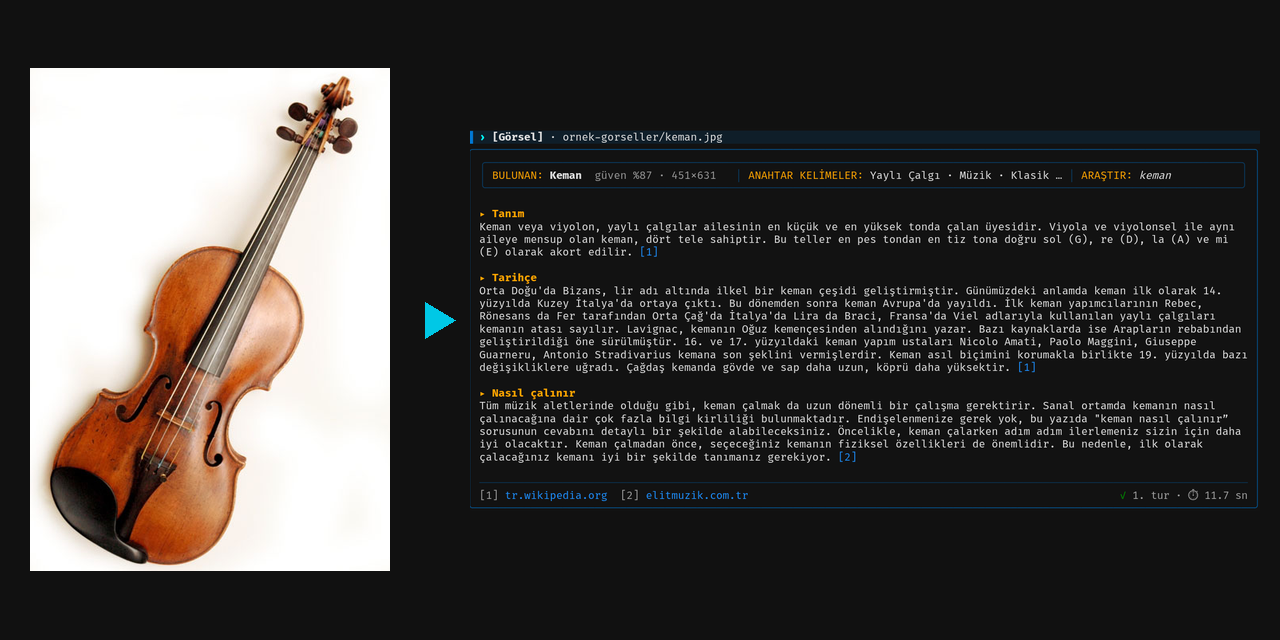
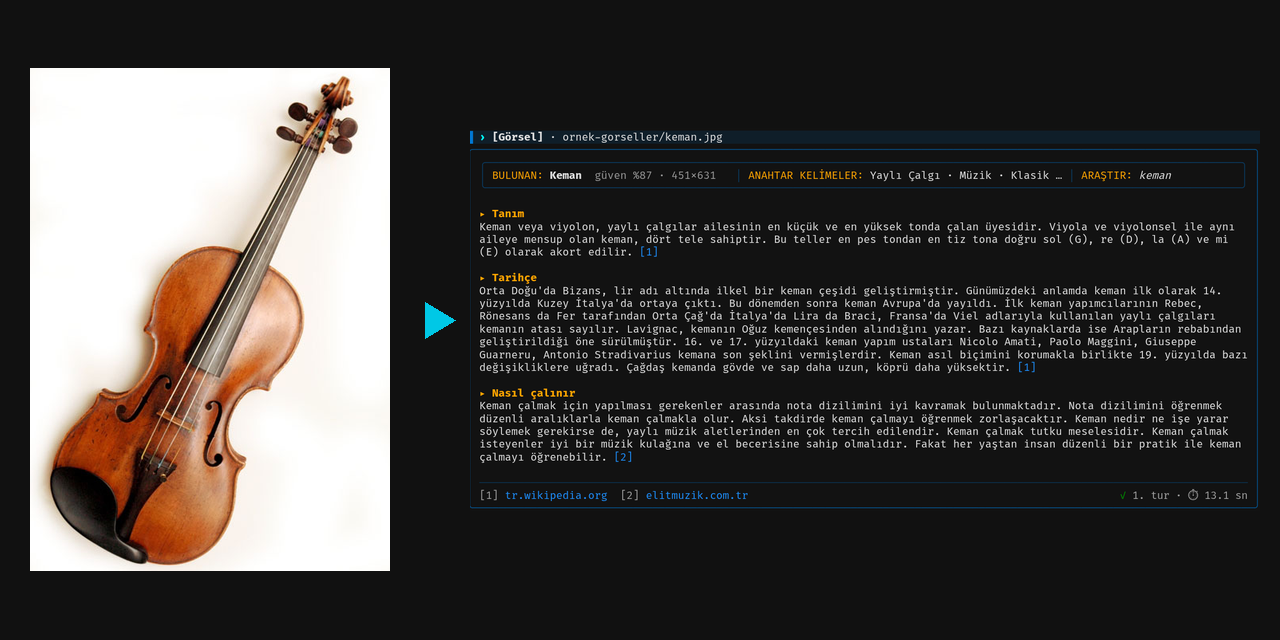
fix: drop blog intros and outros that address the reader

Changed region(s): [[0.375, 0.625, 0.9688, 0.7188]]

diff --git a/tests/test_core.py b/tests/test_core.py
@@ -165,6 +165,20 @@ class ExtractorTest(unittest.TestCase):
         glued = "Cruise Gemisi Nasıl Bir Gemidir?: İçinde konaklama olanağı bulunan gemilerdir."
         self.assertEqual(ContentExtractor.clean(glued), "İçinde konaklama olanağı bulunan gemilerdir.")
 
+    def test_rules_reject_blog_intro(self):
+        intro = ("Tüm müzik aletlerinde olduğu gibi keman çalmak da uzun bir çalışma gerektirir. "
+                 "Endişelenmenize gerek yok, bu yazıda keman çalmayı detaylı bir şekilde öğreneceksiniz.")
+        promise = ("Keman çalmaya başlamadan önce doğru duruşu bilmek gerekir ve aşağıda bunun "
+                   "adımlarını sırasıyla bulabileceksiniz, ardından ilk notalara geçilir.")
+        fact = ("Keman dört telli bir çalgıdır ve teller en pes tondan en tize doğru sol, re, la "
+                "ve mi olarak akort edilir, ses yay ile tellerin titreştirilmesiyle elde edilir.")
+        self.assertFalse(ContentExtractor._passes_rules(intro, ["keman"]))
+        self.assertFalse(ContentExtractor._passes_rules(promise, ["keman"]))
+        outro = ("İşte keman çalmak, bu beş temel adımın sabırla bir araya getirilmesidir. Artık "
+                 "\"keman nasıl çalınır?\" sorusunun cevabının somut adımlardan geçtiğini biliyorsunuz.")
+        self.assertFalse(ContentExtractor._passes_rules(outro, ["keman"]))
+        self.assertTrue(ContentExtractor._passes_rules(fact, ["keman"]))
+
     def test_block_hints_and_threshold(self):
         page = SearchResult("x", "https://x.com/a")
         history = ("Keman ilk kez 16. yüzyılda İtalya'da ortaya çıkmış, Cremona'daki ustaların "

diff --git a/app/extractor.py b/app/extractor.py
@@ -32,6 +32,13 @@ NOISE_PATTERNS = ("çerez", "kvkk", "sepet", "giriş yap", "üye ol", "©", "tı
                   # birinci şahıs blog anlatısı bilgi değil deneyimdir
                   "yollardayım", "kullanıyorum", "eminim", "bence", "benim ", "ben de",
                   "satın al", "bilet", "sipariş ver")
+# yazının kendisinden söz eden ya da okura söz veren paragraf blog girişidir, bilgi taşımaz
+META_PATTERNS = ("bu yazıda", "yazımızda", "bu makalede", "makalemizde", "bu içerikte",
+                 "içeriğimizde", "bu rehberde", "rehberimizde", "endişelenmenize gerek",
+                 "merak etmeyin", "doğru yerdesiniz", "bilgi kirliliği", "biliyorsunuz",
+                 # sayfa başlığındaki soruya atıf yapan giriş ve kapanış paragrafları
+                 "sorusunun cevab", "sorusunun yanıt", "sorusuna cevap", "sorusuna yanıt")
+READER_PROMISE = re.compile(r"\w+(?:ecek|acak)s[iı]n[iı]z\b")  # alabileceksiniz, öğreneceksiniz
 # tarif ve soru-cevap sitelerinin bilgi taşımayan kalıp cümleleri kırpılır
 TAIL_PATTERNS = re.compile(
     r"\s*(Peki[;,]?\s[^.!?]*[.!?]|İşte[^.!?]*\.{2,}|Afiyet olsun!?|Hadi [^.!?]*[.!?])\s*$")
@@ -160,6 +167,8 @@ class ContentExtractor:
         if len(STOPWORDS.intersection(WORD.findall(lower))) < 2:
             return False
         if any(noise in lower for noise in NOISE_PATTERNS):
+            return False
+        if any(meta in lower for meta in META_PATTERNS) or READER_PROMISE.search(lower):
             return False
         # paragraf objeden söz etmeli, her kök ayrı ya da bitişik ifade
         return all(term in lower for term in anchor)

diff --git a/technical-report.md b/technical-report.md
@@ -222,15 +222,18 @@ The main text of the pages is extracted and split into paragraphs. A paragraph
 must be between one hundred fifty and nine hundred characters, end with a
 period, contain Turkish conjunctions, mention the object and carry no site
 leftovers. Boilerplate sentences on recipe and Q&A sites that carry no
-information are trimmed from the paragraph. Candidates are ranked by tf-idf
-cosine similarity to a query built from the object name and the keywords. Term
-frequency is the count of a stem in the paragraph divided by the total number
-of stems in the paragraph. Inverse document frequency is the natural logarithm
-of the number of candidates plus one, divided by the number of paragraphs that
-contain the stem plus one, plus one. This calculation was written without a
-ready-made library. To tolerate Turkish suffixes, the first five letters of a
-word are used as its stem. One paragraph is taken per source, and duplicates
-with high Jaccard similarity are removed.
+information are trimmed from the paragraph. Paragraphs that talk about the
+article itself or make promises to the reader, such as blog intros and outros
+that start with "in this article" or refer back to the question in the page
+title, are dropped entirely. Candidates are ranked by tf-idf cosine similarity
+to a query built from the object name and the keywords. Term frequency is the
+count of a stem in the paragraph divided by the total number of stems in the
+paragraph. Inverse document frequency is the natural logarithm of the number
+of candidates plus one, divided by the number of paragraphs that contain the
+stem plus one, plus one. This calculation was written without a ready-made
+library. To tolerate Turkish suffixes, the first five letters of a word are
+used as its stem. One paragraph is taken per source, and duplicates with high
+Jaccard similarity are removed.
 
 ## 7. Information blocks
 

diff --git a/teknik-rapor.md b/teknik-rapor.md
@@ -201,14 +201,16 @@ kez daha denenir.
 Sayfaların ana metni çıkarılır ve paragraflara bölünür. Paragraf yüz elli ile
 dokuz yüz karakter arasında olmalı, nokta ile bitmeli, Türkçe bağlaç içermeli,
 objeden söz etmeli ve site kalıntısı taşımamalıdır. Tarif ve soru cevap
-sitelerinin bilgi taşımayan kalıp cümleleri paragraftan kırpılır. Adaylar obje
-adı ve anahtar kelimelerden kurulan sorguya tf-idf kosinüs benzerliğiyle
-sıralanır. Terim sıklığı, kökün paragraftaki sayısının paragraftaki toplam kök
-sayısına oranıdır. Ters belge sıklığı, aday sayısı artı birin kökü içeren
-paragraf sayısı artı bire oranının doğal logaritması artı birdir. Bu hesap
-hazır kütüphane kullanılmadan yazılmıştır. Türkçe ekleri hoş görmek için
-kelimelerin ilk beş harfi kök olarak kullanılır. Kaynak başına bir paragraf
-alınır, Jaccard benzerliği yüksek tekrarlar elenir.
+sitelerinin bilgi taşımayan kalıp cümleleri paragraftan kırpılır. Yazının
+kendisinden söz eden ya da okura söz veren paragraflar, bu yazıda diye
+başlayan ya da sayfa başlığındaki soruya atıf yapan blog giriş ve kapanışları
+gibi, tümüyle elenir. Adaylar obje adı ve anahtar kelimelerden kurulan sorguya
+tf-idf kosinüs benzerliğiyle sıralanır. Terim sıklığı, kökün paragraftaki
+sayısının paragraftaki toplam kök sayısına oranıdır. Ters belge sıklığı, aday
+sayısı artı birin kökü içeren paragraf sayısı artı bire oranının doğal
+logaritması artı birdir. Bu hesap hazır kütüphane kullanılmadan yazılmıştır.
+Türkçe ekleri hoş görmek için kelimelerin ilk beş harfi kök olarak kullanılır.
+Kaynak başına bir paragraf alınır, Jaccard benzerliği yüksek tekrarlar elenir.
 
 ## 7. Bilgi blokları
 
